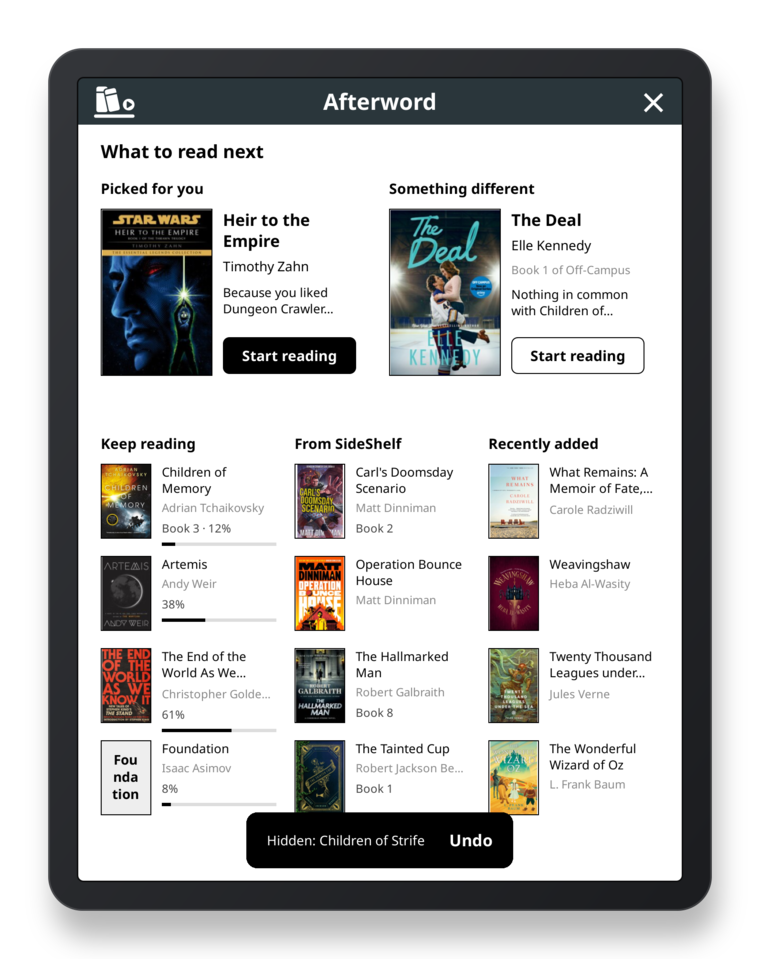
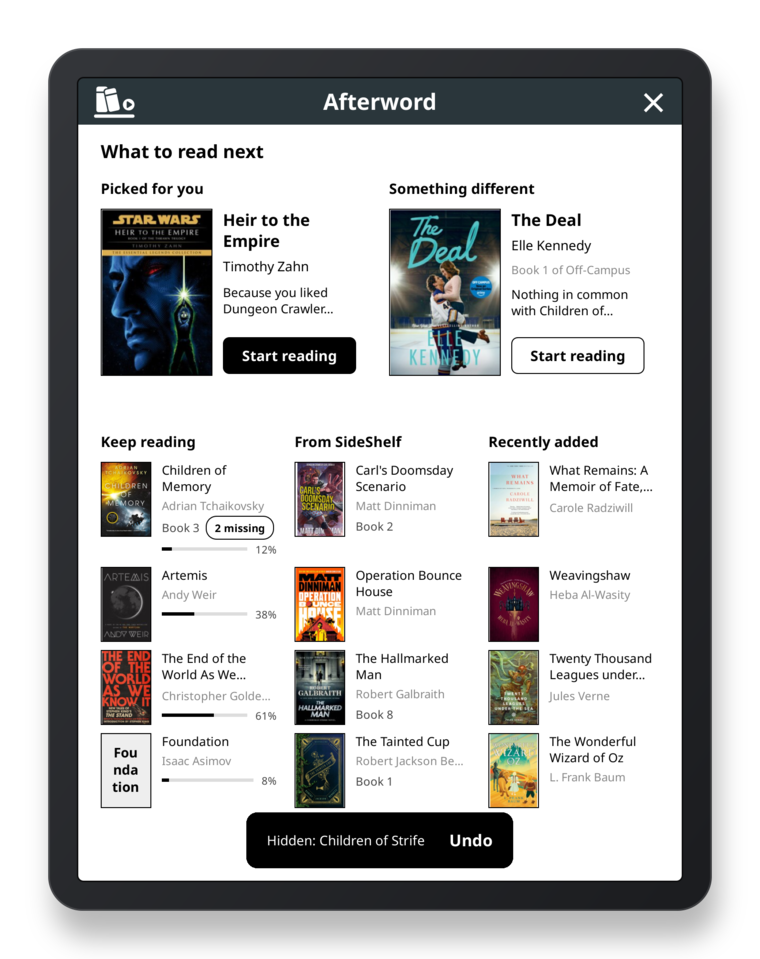
feat: a badge for books that skip ahead in a series, when each On hold book was put down, and a way back from an empty list (#21)
* feat: a badge for books that skip ahead in a series, when each On hold book was put down, and a way back from an empty list

* fix: the badge in a list column sits on the Book N line, so it does not make the rows taller

* feat: the badge also marks books you are reading, and is a quiet outline in the lists

* feat: the percentage moves to the end of the bar beside a badge, and list rows are as tall as their own tallest book

* feat: every started book shows its percentage at the end of the bar

* docs: retake the screenshots with the badges and the percentage at the end of the bar

Changed region(s): [[0.1211, 0.4536, 0.6053, 0.8467], [0.6355, 0.4536, 0.8474, 0.877]]

diff --git a/CLAUDE.md b/CLAUDE.md
@@ -29,4 +29,4 @@ A KOReader plugin in Lua. `tests/run.sh` runs the tests under plain `luajit`.
 
 ## The list
 
-The Pick next list is drawn by `afterword/picklist.lua`: KOReader's own `Menu` (paging; the page arrows show only when a second page is needed) under Afterword's own header (`afterword/header.lua`: the mark, the name, close) with its own rows: the two single picks side by side, then the other groups as columns of small-cover rows, three to a row. The picks' covers take whatever height the lists leave, so the same layout fits portrait and landscape. `PickMenu:setupItemHeights` sizes the rows and decides which fit on a page, so the paging stays KOReader's. Tapping a cover or a Start button opens the book; pressing and holding one raises a sheet (`afterword/sheet.lua`: the book, then "don't suggest", "not now" (30 days) and "fewer like this", which asks for the author, the series or the row), and a Toast with Undo follows. The header's mark opens a small menu (Preferences, Check for updates, Close). Everything hidden is kept by `afterword/exclusions.lua` (one table per kind in `G_reader_settings`, unit-tested with a fake settings object) and handed to `Suggest.groups` as `ctx.hidden` (books, snoozes and skipped collections' books by path), `ctx.hidden_authors`, `ctx.hidden_series` and `ctx.hidden_groups`. The Preferences screens are `afterword/prefs.lua`: an overview, then a screen per kind, all KOReader's `Menu` with rows of their own (`PrefMenu` extends `PickMenu`; its rows keep their own heights, so it names its packing method `layoutRows`, because Menu keeps a table called `layout`; and it needs `items_max_lines` set for Menu to ask for the page layout at all). Selecting follows ShelfSpace: a checkbox per row, a Select all line, and a bar the menu paints itself and answers taps for (a separate widget would take every tap with it). The pickers, the confirm before bringing things back and the filter dialog are in the same file. The list has no unit tests, because it is made of KOReader widgets: look at them in the emulator, at a short screen too so the list pages, and seed it with `tools/seed-emulator.py` so there is a taste to show. What goes in them (the groups, their order, why a book was picked) is `suggest.lua` and `taste.lua`, which are tested.
+The Pick next list is drawn by `afterword/picklist.lua`: KOReader's own `Menu` (paging; the page arrows show only when a second page is needed) under Afterword's own header (`afterword/header.lua`: the mark, the name, close) with its own rows: the two single picks side by side, then the other groups as columns of small-cover rows, three to a row. The picks' covers take whatever height the lists leave, so the same layout fits portrait and landscape. `PickMenu:setupItemHeights` sizes the rows and decides which fit on a page, so the paging stays KOReader's. Tapping a cover or a Start button opens the book; pressing and holding one raises a sheet (`afterword/sheet.lua`: the book, then "don't suggest", "not now" (30 days) and "fewer like this", which asks for the author, the series or the row), and a Toast with Undo follows. The header's mark opens a small menu (Preferences, Check for updates, Close). Everything hidden is kept by `afterword/exclusions.lua` (one table per kind in `G_reader_settings`, unit-tested with a fake settings object) and handed to `Suggest.groups` as `ctx.hidden` (books, snoozes and skipped collections' books by path), `ctx.hidden_authors`, `ctx.hidden_series` and `ctx.hidden_groups`. A book that skips ahead in its series gets a black badge ("Book 4 missing", "3 books missing"): `Series.missing` finds the whole numbers before it that are not in the library, `Suggest` puts them on the book as `missing` (not on the On hold row), and `picklist.lua` draws the pill on a card, and a shorter, outlined one ("2 missing") on the "Book 8" line of a list column (a started book shows its percentage at the end of its bar, never on the "Book 8" line, so a badge always has room). A list row is as tall as the tallest book in it (`row_hs` per list, so the columns line up), not the tallest on the screen: a badge with a percentage makes only its own row taller, and the picks above take what the lists leave. The On hold row carries `note_line` ("4 months ago"), from the date KOReader keeps in the book's own settings (`put_down_of` in main.lua). When the list has nothing in it, `afterword/empty.lua` shows a screen with buttons instead of a message: Close, and Open Preferences when things are hidden. The Preferences screens are `afterword/prefs.lua`: an overview, then a screen per kind, all KOReader's `Menu` with rows of their own (`PrefMenu` extends `PickMenu`; its rows keep their own heights, so it names its packing method `layoutRows`, because Menu keeps a table called `layout`; and it needs `items_max_lines` set for Menu to ask for the page layout at all). Selecting follows ShelfSpace: a checkbox per row, a Select all line, and a bar the menu paints itself and answers taps for (a separate widget would take every tap with it). The pickers, the confirm before bringing things back and the filter dialog are in the same file. The list has no unit tests, because it is made of KOReader widgets: look at them in the emulator, at a short screen too so the list pages, and seed it with `tools/seed-emulator.py` so there is a taste to show. What goes in them (the groups, their order, why a book was picked) is `suggest.lua` and `taste.lua`, which are tested.

diff --git a/README.md b/README.md
@@ -43,9 +43,15 @@ It is one screen, in portrait or landscape; the picks' covers take whatever heig
 
 **Nothing is suggested out of order in a series.** A book in a series is only offered as something new when every lower-numbered book of that series you own is finished, so book 3 never appears while book 2 is unread, half read or on hold (a gap in what you own is skipped). It applies to every group, your collection included, except "Keep reading", which is about books you already started. A series book with no number cannot be placed, so it is not offered.
 
+**A badge says when a book skips ahead.** If you own book 5 but not book 4, the book's card carries a small black badge: "Book 4 missing", or "3 books missing" when several before it are not in your library. It shows on the picks and, shorter ("2 missing"), beside "Book 8" in the lists, so you know before you choose. On the lists it is a quieter, outlined pill, and a book you are reading shows its percentage at the end of its progress bar.
+
+<p align="center">
+  <img src="assets/series-gap.png" width="400" alt="The list with both picks carrying a black badge reading Book 1 missing, and a quieter outlined badge reading 2 missing beside the book number in the columns below">
+</p>
+
 **Picked for you** is worked out on the device from what KOReader already knows. A book you rated 4 or 5 counts for its genre tags, a 3 a little, a 1 or 2 against them; a book you finished without rating counts a little for them, and one you put on hold a little against. An unread book is scored by how many of its tags you have liked, with rare tags counting for more than ones nearly everything has, and books in a language you do not read are left out. It needs at least two books you liked before it will guess, and books with no tags are never offered. Nothing is sent anywhere.
 
-**A new device still gets picks.** With no history or ratings yet, Picked for you is the first book of a series you own (or your newest book) and says it is a good place to start, and Something different is a book with a tag few others in your library have (or by an author you have few books from). Both give way as soon as there is a taste to go on. If nothing is new, the books you put on hold appear under **On hold**.
+**A new device still gets picks.** With no history or ratings yet, Picked for you is the first book of a series you own (or your newest book) and says it is a good place to start, and Something different is a book with a tag few others in your library have (or by an author you have few books from). Both give way as soon as there is a taste to go on. If nothing is new, the books you put on hold appear under **On hold**, longest wait first, each with how long ago you put it down.
 
 The screenshots are from the KOReader desktop emulator, with reading numbers made up for the picture.
 
@@ -58,7 +64,7 @@ Not everything in your library is something you want suggested. **Press and hold
   <img src="assets/hide-undo.png" width="400" alt="The list after hiding a book, with a bar along the bottom reading Hidden, with an Undo button">
 </p>
 
-Everything you have hidden is in **Preferences**, from Tools › Afterword or by tapping the mark in the header: a row per kind with a count, each opening its own screen. Select any number and bring them back from the bar that floats at the bottom, which asks first.
+Everything you have hidden is in **Preferences**, from Tools › Afterword or by tapping the mark in the header: a row per kind with a count, each opening its own screen. Select any number and bring them back from the bar that floats at the bottom, which asks first. If everything in your library ends up hidden, the list says so and has an **Open Preferences** button, so there is always a way back.
 
 <p align="center">
   <img src="assets/prefs-overview.png" width="400" alt="Preferences: hidden books as a strip of covers, then snoozed books, authors, series, rows of the list and collections, each with a count">
